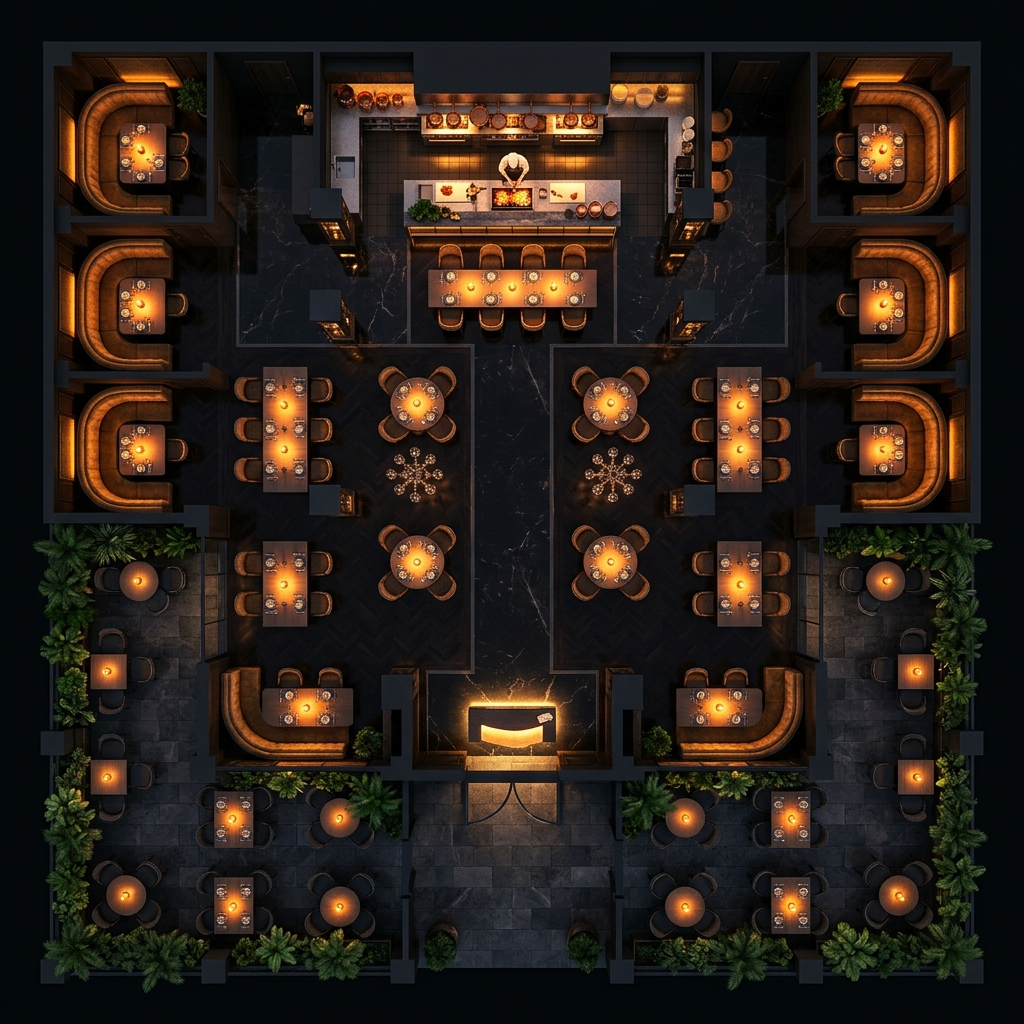
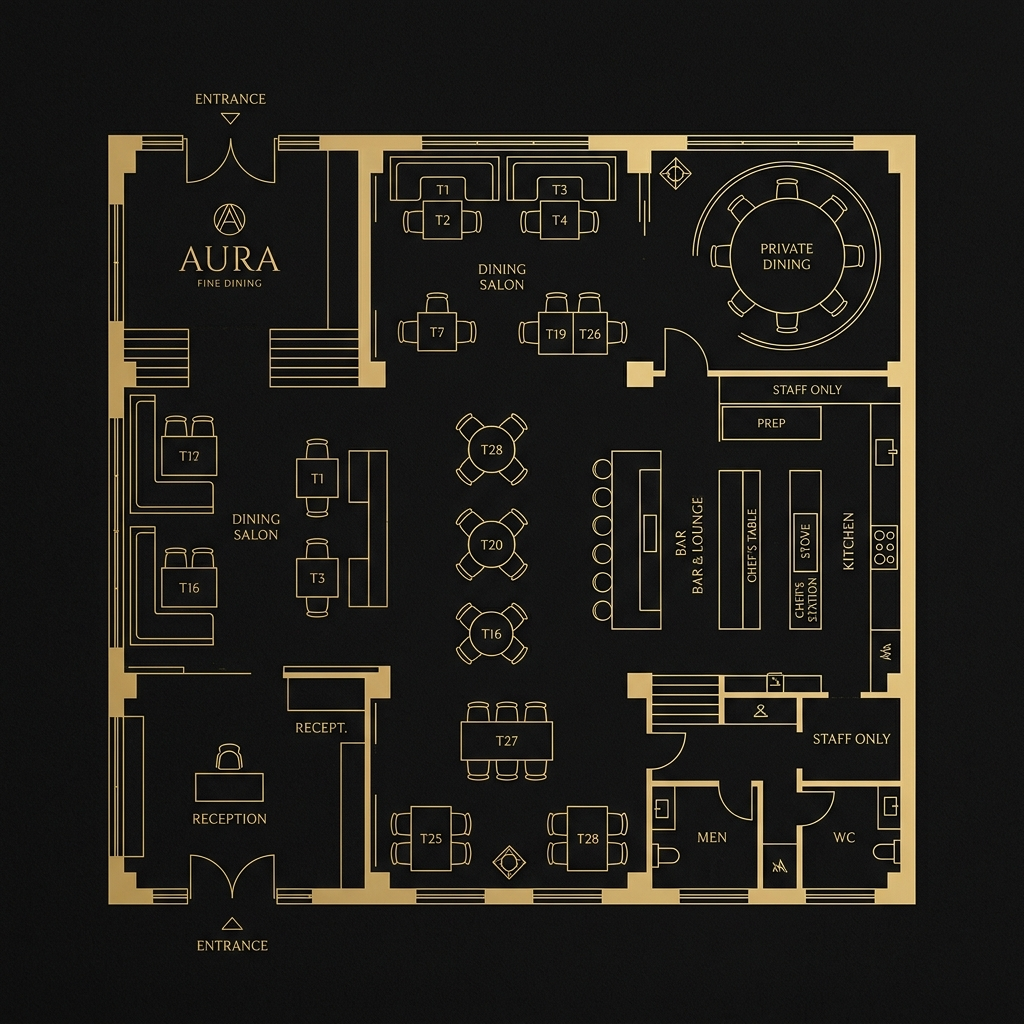
Replace generic unsplash images with custom luxury photography

diff --git a/src/components/GalleryExperience.tsx b/src/components/GalleryExperience.tsx
@@ -7,7 +7,7 @@ const galleryItems = [
   {
     id: 1,
     type: 'image',
-    src: 'https://images.unsplash.com/photo-1517248135467-4c7edcad34c4?auto=format&fit=crop&q=80&w=800',
+    src: ''/images/gallery_ambience.png',
     label: 'Evening Ambience',
     colSpan: 'span 7',
     rowSpan: 'span 2',
@@ -16,7 +16,7 @@ const galleryItems = [
   {
     id: 2,
     type: 'image',
-    src: 'https://images.unsplash.com/photo-1577219491135-ce391730fb2c?auto=format&fit=crop&q=80&w=600',
+    src: ''/images/chef_portrait.png',
     label: 'The Culinary Artist',
     colSpan: 'span 5',
     rowSpan: 'span 3',
@@ -25,7 +25,7 @@ const galleryItems = [
   {
     id: 3,
     type: 'video',
-    src: 'https://images.unsplash.com/photo-1550966871-3ed3cdb5ed0c?auto=format&fit=crop&q=80&w=600',
+    src: ''/images/menu_bg.png',
     label: 'Behind The Scenes',
     duration: '01:45',
     colSpan: 'span 4',
@@ -35,7 +35,7 @@ const galleryItems = [
   {
     id: 4,
     type: 'image',
-    src: 'https://images.unsplash.com/photo-1596683720372-23c2a39a5cc8?auto=format&fit=crop&q=80&w=600',
+    src: ''/images/truffle_scallops.png',
     label: "Chef's Signature",
     colSpan: 'span 3',
     rowSpan: 'span 2',
@@ -44,7 +44,7 @@ const galleryItems = [
   {
     id: 5,
     type: 'image',
-    src: 'https://images.unsplash.com/photo-1510812431401-41d2bd2722f3?auto=format&fit=crop&q=80&w=800',
+    src: ''/images/gallery_wine.png',
     label: 'Wine Experience',
     colSpan: 'span 5',
     rowSpan: 'span 2',
@@ -53,7 +53,7 @@ const galleryItems = [
   {
     id: 6,
     type: 'video',
-    src: 'https://images.unsplash.com/photo-1555396273-367ea4eb4db5?auto=format&fit=crop&q=80&w=800',
+    src: ''/images/event_chef_table.png',
     label: 'Fire & Passion',
     duration: '00:58',
     colSpan: 'span 12',
@@ -63,7 +63,7 @@ const galleryItems = [
   {
     id: 7,
     type: 'image',
-    src: 'https://images.unsplash.com/photo-1572695157366-5e585ab2b69f?auto=format&fit=crop&q=80&w=600',
+    src: ''/images/dish_caviar.png',
     label: 'Dessert Finale',
     colSpan: 'span 4',
     rowSpan: 'span 2',
@@ -72,7 +72,7 @@ const galleryItems = [
   {
     id: 8,
     type: 'image',
-    src: 'https://images.unsplash.com/photo-1544025162-8111f44d5a92?auto=format&fit=crop&q=80&w=600',
+    src: ''/images/event_corporate.png',
     label: 'Private Events',
     colSpan: 'span 4',
     rowSpan: 'span 2',
@@ -81,7 +81,7 @@ const galleryItems = [
   {
     id: 9,
     type: 'image',
-    src: 'https://images.unsplash.com/photo-1605333396914-2314e365021a?auto=format&fit=crop&q=80&w=600',
+    src: ''/images/dish_wagyu.png',
     label: 'Seasonal Collection',
     colSpan: 'span 4',
     rowSpan: 'span 2',
@@ -195,3 +195,4 @@ export default function GalleryExperience() {
     </section>
   );
 }
+

diff --git a/src/components/MenuExperience.tsx b/src/components/MenuExperience.tsx
@@ -36,12 +36,12 @@ type Dish = {
 };
 
 const menuData: Dish[] = [
-  { id: '1', category: 'Appetizers', name: 'Saffron Butter Garlic Prawns', description: 'Jumbo prawns tossed in saffron infused butter, garlic and fresh herbs.', price: 1150, image: 'https://images.unsplash.com/photo-1565557623262-b51c2513a641?auto=format&fit=crop&q=80&w=600', isVeg: false, spiceLevel: 3, isChefRec: true, prepTime: '18 mins' },
-  { id: '2', category: 'Appetizers', name: 'Truffle Burrata Salad', description: 'Creamy burrata, heirloom tomatoes, aged balsamic and black truffle.', price: 950, image: 'https://images.unsplash.com/photo-1608897013039-b2d9d1bd2304?auto=format&fit=crop&q=80&w=600', isVeg: true, spiceLevel: 0, isChefRec: false, prepTime: '12 mins' },
-  { id: '3', category: 'Appetizers', name: 'Herb Crusted Lamb Chops', description: 'Australian lamb cutlets with rosemary crust, served with roasted vegetables.', price: 1350, image: 'https://images.unsplash.com/photo-1544025162-8111f44d5a92?auto=format&fit=crop&q=80&w=600', isVeg: false, spiceLevel: 2, isChefRec: true, prepTime: '20 mins' },
-  { id: '4', category: 'Appetizers', name: 'Crispy Lotus Stem', description: 'Crispy lotus stem with spicy sichuan glaze.', price: 750, image: 'https://images.unsplash.com/photo-1605333396914-2314e365021a?auto=format&fit=crop&q=80&w=600', isVeg: true, spiceLevel: 2, isChefRec: false, prepTime: '15 mins' },
-  { id: '5', category: 'Appetizers', name: 'Tandoori Kalmi Kebab', description: 'Slow cooked chicken with aromatic Indian spices.', price: 850, image: 'https://images.unsplash.com/photo-1599487405270-817684aa530f?auto=format&fit=crop&q=80&w=600', isVeg: false, spiceLevel: 2, isChefRec: false, prepTime: '18 mins' },
-  { id: '6', category: 'Appetizers', name: 'Wild Mushroom Crostini', description: 'Sautéed wild mushrooms, truffle oil, parmesan.', price: 820, image: 'https://images.unsplash.com/photo-1572695157366-5e585ab2b69f?auto=format&fit=crop&q=80&w=600', isVeg: true, spiceLevel: 0, isChefRec: false, prepTime: '12 mins' },
+  { id: '1', category: 'Appetizers', name: 'Saffron Butter Garlic Prawns', description: 'Jumbo prawns tossed in saffron infused butter, garlic and fresh herbs.', price: 1150, image: ''/images/saffron_risotto.png', isVeg: false, spiceLevel: 3, isChefRec: true, prepTime: '18 mins' },
+  { id: '2', category: 'Appetizers', name: 'Truffle Burrata Salad', description: 'Creamy burrata, heirloom tomatoes, aged balsamic and black truffle.', price: 950, image: ''/images/dish_truffle_risotto.png', isVeg: true, spiceLevel: 0, isChefRec: false, prepTime: '12 mins' },
+  { id: '3', category: 'Appetizers', name: 'Herb Crusted Lamb Chops', description: 'Australian lamb cutlets with rosemary crust, served with roasted vegetables.', price: 1350, image: ''/images/event_corporate.png', isVeg: false, spiceLevel: 2, isChefRec: true, prepTime: '20 mins' },
+  { id: '4', category: 'Appetizers', name: 'Crispy Lotus Stem', description: 'Crispy lotus stem with spicy sichuan glaze.', price: 750, image: ''/images/dish_wagyu.png', isVeg: true, spiceLevel: 2, isChefRec: false, prepTime: '15 mins' },
+  { id: '5', category: 'Appetizers', name: 'Tandoori Kalmi Kebab', description: 'Slow cooked chicken with aromatic Indian spices.', price: 850, image: ''/images/dish_lobster.png', isVeg: false, spiceLevel: 2, isChefRec: false, prepTime: '18 mins' },
+  { id: '6', category: 'Appetizers', name: 'Wild Mushroom Crostini', description: 'Sautéed wild mushrooms, truffle oil, parmesan.', price: 820, image: ''/images/dish_caviar.png', isVeg: true, spiceLevel: 0, isChefRec: false, prepTime: '12 mins' },
 ];
 
 export default function MenuExperience() {
@@ -105,7 +105,7 @@ export default function MenuExperience() {
       
       {/* Cinematic Background */}
       <div className={styles.bgWrapper}>
-        <img src="https://images.unsplash.com/photo-1550966871-3ed3cdb5ed0c?auto=format&fit=crop&q=80&w=2000" alt="Restaurant Background" className={styles.bgImage} />
+        <img src="'/images/menu_bg.png' alt="Restaurant Background" className={styles.bgImage} />
         <div className={styles.bgOverlay}></div>
       </div>
 
@@ -383,3 +383,5 @@ export default function MenuExperience() {
     </section>
   );
 }
+
+

diff --git a/src/components/ReservationExperience.tsx b/src/components/ReservationExperience.tsx
@@ -70,10 +70,10 @@ const features = [
 ];
 
 const featuredDishes = [
-  { id: 'd1', name: 'Wagyu Tenderloin', desc: 'A5 Japanese Wagyu, truffle mash, red wine jus', price: 4500, img: 'https://images.unsplash.com/photo-1544025162-8111f44d5a92?w=500&q=80', isVeg: false, spice: 0, isChefRec: true },
-  { id: 'd2', name: 'Truffle Pasta', desc: 'Handmade taglionini, shaved black truffle, parmesan', price: 1850, img: 'https://images.unsplash.com/photo-1621996316585-8167f226d705?w=500&q=80', isVeg: true, spice: 0, isChefRec: true },
-  { id: 'd3', name: 'Chocolate Sphere', desc: 'Valrhona chocolate, melting caramel, gold leaf', price: 1100, img: 'https://images.unsplash.com/photo-1574359411659-15573a27fd0c?w=500&q=80', isVeg: true, spice: 0, isChefRec: false },
-  { id: 'd4', name: 'Saffron Prawns', desc: 'Jumbo prawns, saffron butter, garlic, fresh herbs', price: 1150, img: 'https://images.unsplash.com/photo-1565557623262-b51c2513a641?w=500&q=80', isVeg: false, spice: 3, isChefRec: true },
+  { id: 'd1', name: 'Wagyu Tenderloin', desc: 'A5 Japanese Wagyu, truffle mash, red wine jus', price: 4500, img: ''/images/event_corporate.png', isVeg: false, spice: 0, isChefRec: true },
+  { id: 'd2', name: 'Truffle Pasta', desc: 'Handmade taglionini, shaved black truffle, parmesan', price: 1850, img: ''/images/dish_truffle_risotto.png', isVeg: true, spice: 0, isChefRec: true },
+  { id: 'd3', name: 'Chocolate Sphere', desc: 'Valrhona chocolate, melting caramel, gold leaf', price: 1100, img: ''/images/chocolate_sphere.png', isVeg: true, spice: 0, isChefRec: false },
+  { id: 'd4', name: 'Saffron Prawns', desc: 'Jumbo prawns, saffron butter, garlic, fresh herbs', price: 1150, img: ''/images/saffron_risotto.png', isVeg: false, spice: 3, isChefRec: true },
 ];
 
 export default function ReservationExperience() {
@@ -599,3 +599,5 @@ export default function ReservationExperience() {
     </section>
   );
 }
+
+

diff --git a/src/components/AboutExperience.tsx b/src/components/AboutExperience.tsx
@@ -73,16 +73,16 @@ export default function AboutExperience() {
           <div className={styles.rightColumn}>
             <div className={styles.collageGrid}>
               <motion.div className={`${styles.collageImg} ${styles.img1}`} variants={itemVariants}>
-                <img src="https://images.unsplash.com/photo-1577219491135-ce391730fb2c?auto=format&fit=crop&q=80&w=800" alt="Chef Plating" />
+                <img src="'/images/chef_portrait.png' alt="Chef Plating" />
               </motion.div>
               <motion.div className={`${styles.collageImg} ${styles.img2}`} variants={itemVariants}>
-                <img src="https://images.unsplash.com/photo-1550966871-3ed3cdb5ed0c?auto=format&fit=crop&q=80&w=800" alt="Elegant Dining Room" />
+                <img src="'/images/menu_bg.png' alt="Elegant Dining Room" />
               </motion.div>
               <motion.div className={`${styles.collageImg} ${styles.img3}`} variants={itemVariants}>
-                <img src="https://images.unsplash.com/photo-1596683720372-23c2a39a5cc8?auto=format&fit=crop&q=80&w=800" alt="Fresh Premium Ingredients" />
+                <img src="'/images/truffle_scallops.png' alt="Fresh Premium Ingredients" />
               </motion.div>
               <motion.div className={`${styles.collageImg} ${styles.img4}`} variants={itemVariants}>
-                <img src="https://images.unsplash.com/photo-1517248135467-4c7edcad34c4?auto=format&fit=crop&q=80&w=800" alt="Guests Enjoying Dinner" />
+                <img src="'/images/gallery_ambience.png' alt="Guests Enjoying Dinner" />
               </motion.div>
             </div>
 
@@ -167,3 +167,4 @@ export default function AboutExperience() {
     </section>
   );
 }
+

diff --git a/src/components/SignatureDishes.tsx b/src/components/SignatureDishes.tsx
@@ -8,28 +8,28 @@ const dishes = [
     name: 'Truffle Butter Scallops',
     desc: 'Seared scallops with truffle butter, cauliflower puree and micro greens.',
     price: '₹ 1,850',
-    img: 'https://images.unsplash.com/photo-1599084993091-1cb5c0721cc6?q=80&w=2070&auto=format&fit=crop'
+    img: ''/images/truffle_scallops.png'
   },
   {
     badge: 'BEST SELLER',
     name: 'Wagyu Tenderloin',
     desc: 'A5 wagyu with red wine jus, grilled asparagus and roasted garlic.',
     price: '₹ 2,950',
-    img: 'https://images.unsplash.com/photo-1544025162-d76694265947?q=80&w=2069&auto=format&fit=crop'
+    img: ''/images/dish_wagyu.png'
   },
   {
     badge: 'NEW ARRIVAL',
     name: 'Chocolate Sphere',
     desc: 'Dark chocolate mousse, hazelnut praline, and berry coulis.',
     price: '₹ 1,250',
-    img: 'https://images.unsplash.com/photo-1559742811-822873691df8?q=80&w=2000&auto=format&fit=crop'
+    img: ''/images/dish_lobster.png'
   },
   {
     badge: 'CHEF\'S SPECIAL',
     name: 'Lobster Thermidor',
     desc: 'Classic thermidor sauce, mornay, truffle oil and parmesan crisp.',
     price: '₹ 2,450',
-    img: 'https://images.unsplash.com/photo-1533622597524-a733303d36ff?q=80&w=2000&auto=format&fit=crop'
+    img: ''/images/dish_caviar.png'
   }
 ];
 
@@ -86,3 +86,4 @@ export default function SignatureDishes() {
     </section>
   );
 }
+

diff --git a/src/components/EventsExperience.tsx b/src/components/EventsExperience.tsx
@@ -7,7 +7,7 @@ const eventsData = [
   {
     id: 'weddings',
     title: 'Wedding Receptions',
-    image: 'https://images.unsplash.com/photo-1519167758481-83f550bb49b3?auto=format&fit=crop&q=80&w=1200',
+    image: '/images/event_wedding.png',
     editorialTitle: 'A Celebration of Eternal Elegance',
     description: 'Transform your special day into a cinematic masterpiece. Our Grand Ballroom provides a breathtaking canvas of crystal chandeliers, golden candlelight, and bespoke floral arrangements, ensuring every moment is as flawless as your romance.',
     capacity: 'Up to 120 Guests',
@@ -17,7 +17,7 @@ const eventsData = [
   {
     id: 'corporate',
     title: 'Corporate Dining',
-    image: 'https://images.unsplash.com/photo-1550966871-3ed3cdb5ed0c?auto=format&fit=crop&q=80&w=1200',
+    image: '/images/event_corporate.png',
     editorialTitle: 'Where Vision Meets Prestige',
     description: 'Elevate your business engagements in an atmosphere of absolute discretion and prestige. Designed for executive guests and private conferences, our modern elegant interiors provide the perfect backdrop for closing deals and celebrating milestones over world-class wine service.',
     capacity: 'Up to 50 Guests',
@@ -27,7 +27,7 @@ const eventsData = [
   {
     id: 'birthday',
     title: 'Birthday Celebrations',
-    image: 'https://images.unsplash.com/photo-1530103862676-de88b9ff68ea?auto=format&fit=crop&q=80&w=1200',
+    image: '/images/event_birthday.png',
     editorialTitle: 'Moments Steeped in Joy',
     description: 'Mark another beautiful year of life surrounded by those who matter most. From an exclusive champagne reception to a theatrical cake presentation, our team curates an atmosphere of warm lighting, elegant celebrations, and unforgettable joy.',
     capacity: 'Up to 30 Guests',
@@ -37,7 +37,7 @@ const eventsData = [
   {
     id: 'chef',
     title: 'Private Chef Experience',
-    image: 'https://images.unsplash.com/photo-1577219491135-ce391730fb2c?auto=format&fit=crop&q=80&w=1200',
+    image: '/images/event_chef_table.png',
     editorialTitle: 'Culinary Art, Unveiled',
     description: "An exclusive journey into the mind of a culinary master. Sit at the highly coveted Chef's Table and watch as our Executive Chef prepares a live luxury tasting menu exclusively for you, blending personal interaction with premium wine pairings.",
     capacity: '2 to 8 Guests',

diff --git a/src/components/ExperienceSection.tsx b/src/components/ExperienceSection.tsx
@@ -54,13 +54,14 @@ export default function ExperienceSection() {
 
         <div className={styles.images}>
           <motion.div className={styles.imgWrapper1} style={{ y: y1 }}>
-            <img src="https://images.unsplash.com/photo-1517248135467-4c7edcad34c4?auto=format&fit=crop&w=800&q=80" alt="Restaurant Interior" />
+            <img src="'/images/gallery_ambience.png' alt="Restaurant Interior" />
           </motion.div>
           <motion.div className={styles.imgWrapper2} style={{ y: y2 }}>
-            <img src="https://images.unsplash.com/photo-1583394838336-acd977736f90?auto=format&fit=crop&w=800&q=80" alt="Chef plating" />
+            <img src="'/images/chef.png' alt="Chef plating" />
           </motion.div>
         </div>
       </div>
     </section>
   );
 }
+

diff --git a/src/pages/LandingPage.module.css b/src/pages/LandingPage.module.css
@@ -19,14 +19,14 @@
   left: 0;
   right: 0;
   bottom: 0;
-  background: linear-gradient(90deg, var(--color-bg) 15%, rgba(7,7,7,0.3) 100%), url('https://images.unsplash.com/photo-1414235077428-338989a2e8c0?q=80&w=2070&auto=format&fit=crop') center/cover;
+  background: linear-gradient(90deg, var(--color-bg) 15%, rgba(7,7,7,0.3) 100%), url(''/images/landing_hero.png') center/cover;
   z-index: -1;
   transform: scale(1.05);
   animation: slowZoom 20s ease-out forwards;
 }
 
 :global(.light) .heroBg {
-  background: linear-gradient(90deg, var(--color-bg) 15%, rgba(248,249,250,0.5) 100%), url('https://images.unsplash.com/photo-1414235077428-338989a2e8c0?q=80&w=2070&auto=format&fit=crop') center/cover;
+  background: linear-gradient(90deg, var(--color-bg) 15%, rgba(248,249,250,0.5) 100%), url(''/images/landing_hero.png') center/cover;
 }
 
 @keyframes slowZoom {
@@ -329,3 +329,4 @@
     gap: 40px;
   }
 }
+

diff --git a/src/components/AboutExperience.module.css b/src/components/AboutExperience.module.css
@@ -31,7 +31,7 @@
 .textureOverlay {
   position: absolute;
   inset: 0;
-  background: url('https://www.transparenttextures.com/patterns/stardust.png');
+  background: url('/images/media_.png');
   opacity: 0.15;
   pointer-events: none;
   z-index: 0;
@@ -312,3 +312,4 @@
   .stat2 { display: none; }
   .philosophyContent { font-size: 0.95rem; }
 }
+

diff --git a/src/components/ContactExperience.module.css b/src/components/ContactExperience.module.css
@@ -43,7 +43,7 @@
 .textureOverlay {
   position: absolute;
   inset: 0;
-  background: url('https://www.transparenttextures.com/patterns/stardust.png');
+  background: url('/images/media_.png');
   opacity: 0.15;
   pointer-events: none;
   z-index: 0;
@@ -577,3 +577,4 @@
   .mapButtons { flex-direction: column; }
   .socialSection { flex-direction: column; gap: 24px; }
 }
+

diff --git a/src/components/ContactExperience.tsx b/src/components/ContactExperience.tsx
@@ -205,7 +205,7 @@ export default function ContactExperience() {
         {/* Interactive Map Section */}
         <motion.div className={styles.mapSection} variants={itemVariants}>
           <div className={styles.mapImageWrapper}>
-            <img src="https://images.unsplash.com/photo-1514362545857-3bc16c4c7d1b?auto=format&fit=crop&q=80&w=1200" alt="Savora Entrance" className={styles.mapImage} />
+            <img src="'/images/luxury_dining_room.png' alt="Savora Entrance" className={styles.mapImage} />
             <div className={styles.mapOverlay}></div>
             
             <div className={styles.locationCard}>
@@ -248,3 +248,4 @@ export default function ContactExperience() {
     </section>
   );
 }
+

diff --git a/src/components/HeroSection.tsx b/src/components/HeroSection.tsx
@@ -74,7 +74,7 @@ export default function HeroSection() {
         transition={{ duration: 30, repeat: Infinity, ease: "linear" }}
       >
         <img 
-          src="https://images.unsplash.com/photo-1544025162-d76694265947?q=80&w=2500&auto=format&fit=crop" 
+          src="'/images/dish_wagyu.png' 
           alt="Cinematic luxury restaurant" 
           className={styles.bgImage}
         />
@@ -321,3 +321,4 @@ export default function HeroSection() {
     </section>
   );
 }
+